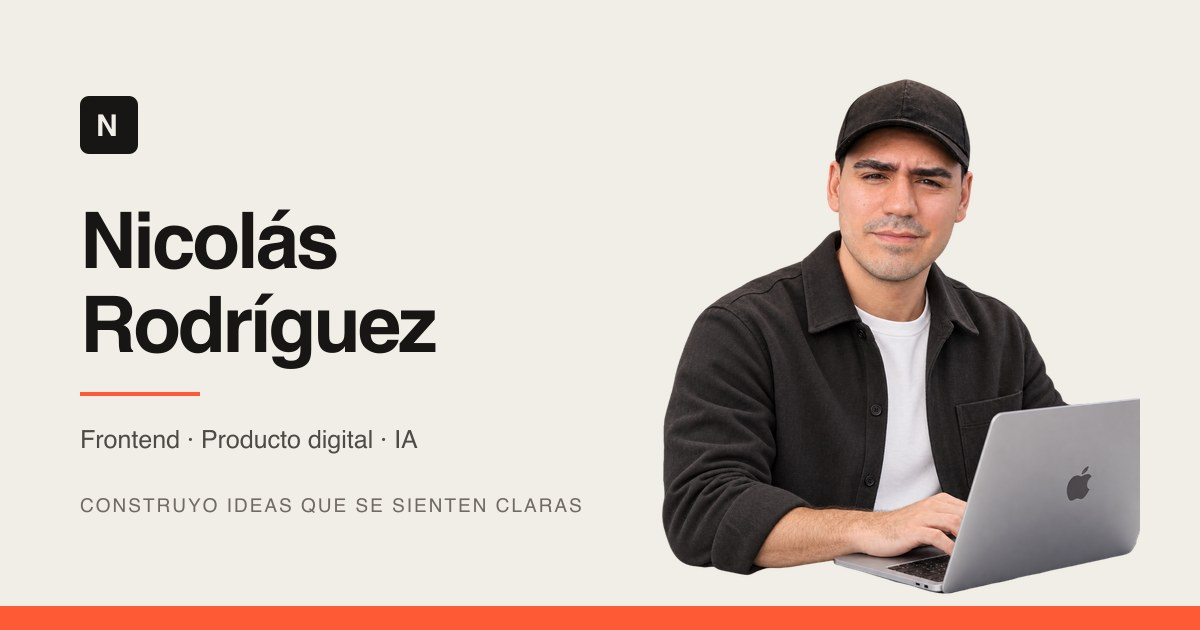
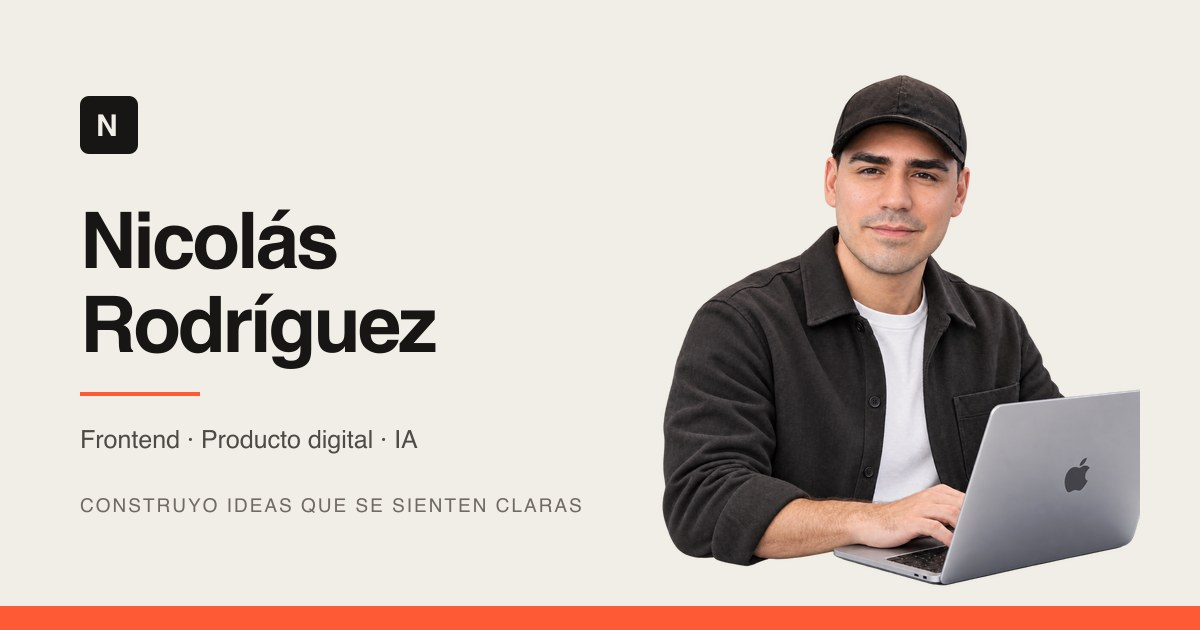
Swap in the new hero portrait
Same 1122x1402 frame as the one it replaces, so the CSS aspect-ratio box
is unchanged and nothing is cropped.

Derivatives regenerated from the new file as re-encodings, not crops:
94KB webp, 37KB at mobile width, with the 1.35MB PNG as the fallback
browsers without webp support will essentially never fetch. The preload
hint and the social card were both still pointing at the old portrait;
both now use the new one.

The three old assets are removed rather than left behind, since the
build copies everything under public/ into dist.

diff --git a/src/components/sections/Hero.jsx b/src/components/sections/Hero.jsx
@@ -115,10 +115,10 @@ export function Hero() {
             <span className="hero-orbit hero-orbit-b" aria-hidden="true" />
 
             <picture className="hero-portrait">
-              <source srcSet="/nicolasrp-640.webp" type="image/webp" media="(max-width: 700px)" />
-              <source srcSet="/nicolasrp-1122.webp" type="image/webp" />
+              <source srcSet="/hero-640.webp" type="image/webp" media="(max-width: 700px)" />
+              <source srcSet="/hero-1122.webp" type="image/webp" />
               <img
-                src="/nicolasrp-Photoroom.png"
+                src="/nicoalsrphero.png"
                 alt="Retrato de Nicolás Rodríguez"
                 width="1122"
                 height="1402"

diff --git a/index.html b/index.html
@@ -28,8 +28,8 @@
          warming the connections shaves that off the first paint. -->
     <link rel="preconnect" href="https://fonts.googleapis.com" />
     <link rel="preconnect" href="https://fonts.gstatic.com" crossorigin />
-    <link rel="preload" as="image" href="/nicolasrp-1122.webp" type="image/webp"
-          imagesrcset="/nicolasrp-640.webp 640w, /nicolasrp-1122.webp 1122w"
+    <link rel="preload" as="image" href="/hero-1122.webp" type="image/webp"
+          imagesrcset="/hero-640.webp 640w, /hero-1122.webp 1122w"
           imagesizes="(max-width: 700px) 100vw, 480px" fetchpriority="high" />
 
     <meta property="og:type" content="website" />

diff --git a/README.md b/README.md
@@ -173,11 +173,14 @@ sección vacía se lee como un sitio a medio hacer. Cada certificado exige
 
 ## Rendimiento
 
-El retrato es `public/nicolasrp-Photoroom.png`, el recorte sin fondo tal cual. Se
-sirve como WebP de 76 KB (32 KB en móvil) mediante `<picture>`, con el PNG de
-1,7 MB solo como respaldo para navegadores sin WebP. Las derivadas son
+El retrato es `public/nicoalsrphero.png`, el recorte sin fondo tal cual. Se
+sirve como WebP de 94 KB (37 KB en móvil) mediante `<picture>`, con el PNG de
+1,35 MB solo como respaldo para navegadores sin WebP. Las derivadas son
 **reencodings, no recortes**: mismo encuadre, y el CSS lo dibuja con
-`object-fit: contain` sobre una caja `aspect-ratio`, sin altura fija que lo corte.
+`object-fit: contain` sobre una caja `aspect-ratio` de 1122/1402, sin altura fija
+que lo corte. Al sustituir el retrato hay que regenerar `hero-1122.webp`,
+`hero-640.webp` y `og-image.jpg`, y ajustar el `aspect-ratio` si cambia la
+proporción del original.
 
 Build actual: **~94 KB gzip** de aplicación + **27 KB gzip** de GSAP en su propio
 chunk. El grano de la página es un filtro SVG en línea de ~300 bytes, no un bitmap.
